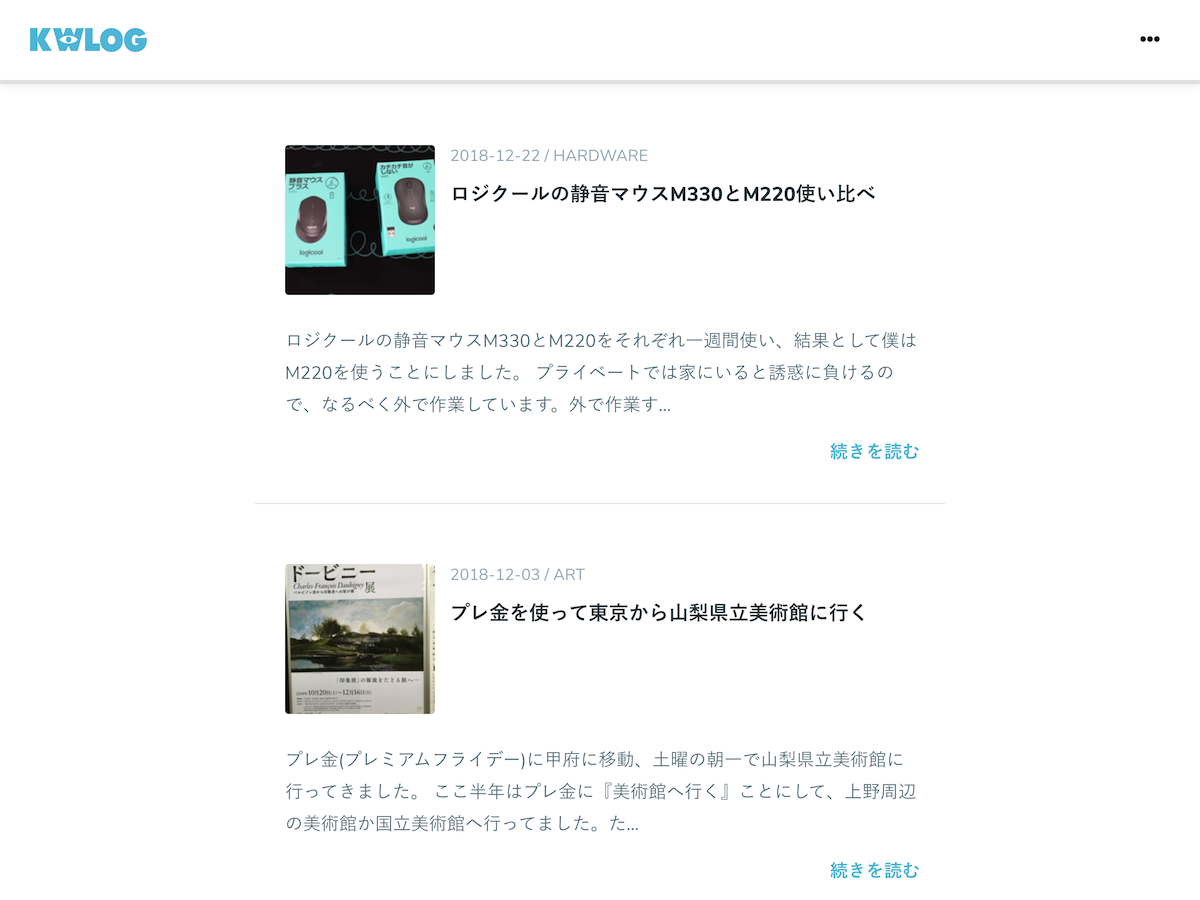
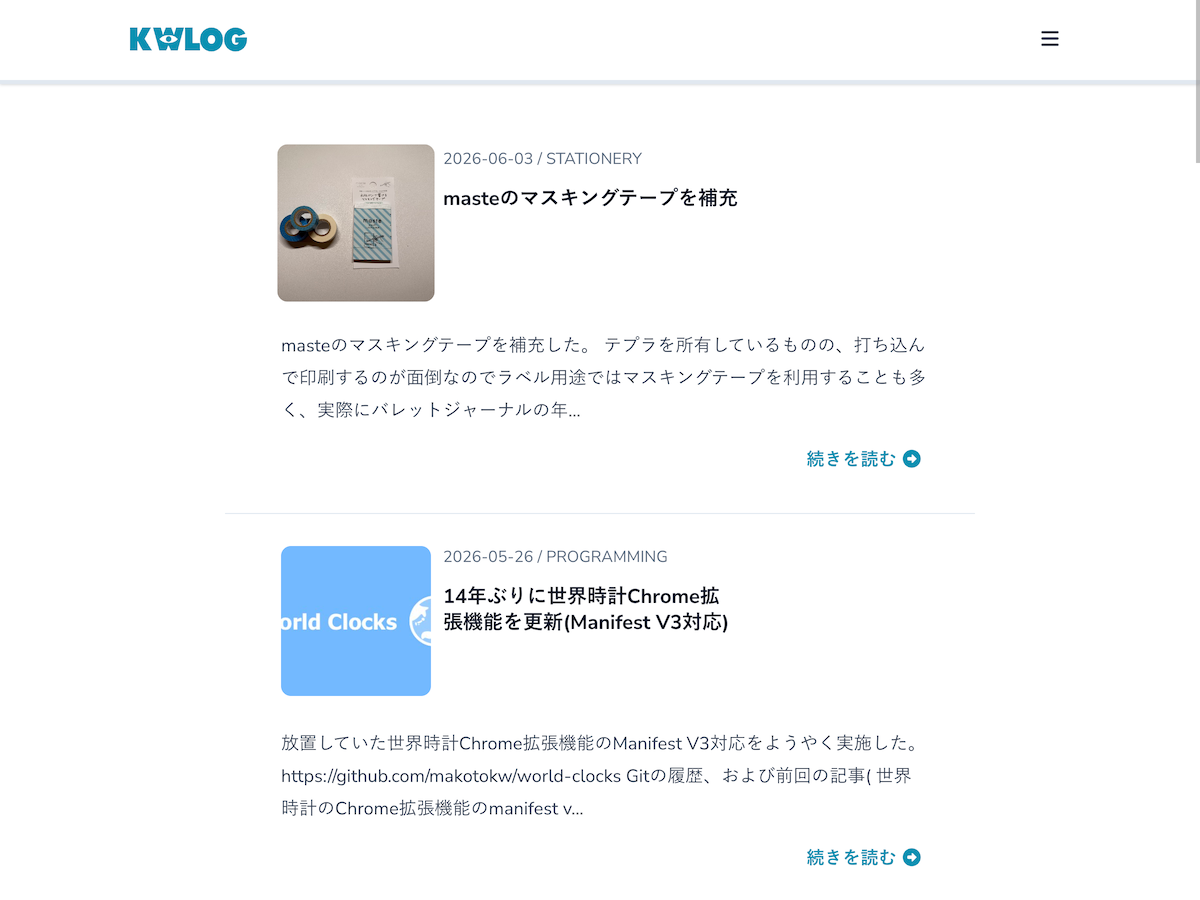
Update README, style.css, and package.json: refine docs, bump version to 1.0.0 stable, and update theme metadata.

diff --git a/style.css b/style.css
@@ -4,7 +4,7 @@
  * Author: makoto_kw
  * Author URI: https://makotokw.com/
  * Description: 2026 theme for blog.makotokw.com.
- * Version: 1.0.0-beta.1.1782608948295
+ * Version: 1.0.0.1783000751712
  * Requires at least: 6.0
  * Tested up to: 6.9
  * Requires PHP: 7.4

diff --git a/README.md b/README.md
@@ -1,43 +1,42 @@
-makotokw theme for WordPress
-===
+# makotokw theme for WordPress
 
 WordPress theme for [blog.makotokw.com](https://blog.makotokw.com).
 
 ![Screenshot](https://raw.githubusercontent.com/makotokw/wp-theme-makotokw/makotokw2021/screenshot.png)
 
- * Created by [_s](http://underscores.me)
- * Inspired [Twenty Fifteen](https://twentyfifteendemo.wordpress.com/), [ghost](https://blog.ghost.org/) and [medium](https://medium.com/)
- * [Font Awesome](http://fortawesome.github.io/Font-Awesome/) Icons
- * [Nunito Sans](https://github.com/googlefonts/nunito) self-hosted under the SIL Open Font License 1.1 (`assets/fonts/Nunito-Sans-OFL.txt`)
- * [google-code-prettify](https://github.com/google/code-prettify)
- * [Notyf](https://github.com/caroso1222/notyf)
- * [Tippy.js](https://atomiks.github.io/tippyjs/)
+- Created by [_s](http://underscores.me)
+- Inspired by [Twenty Fifteen](https://twentyfifteendemo.wordpress.com/), [Ghost](https://blog.ghost.org/), and [Medium](https://medium.com/)
+- [Font Awesome](http://fortawesome.github.io/Font-Awesome/) icons
+- [Nunito Sans](https://github.com/googlefonts/nunito), self-hosted under the SIL Open Font License 1.1 (`assets/fonts/Nunito-Sans-OFL.txt`)
+- [google-code-prettify](https://github.com/google/code-prettify)
+- [Notyf](https://github.com/caroso1222/notyf)
+- [Tippy.js](https://atomiks.github.io/tippyjs/)
 
-## Work With
+## Works With
 
-* [AmazonJS](https://wordpress.org/plugins/amazonjs/) Plugin
-* [GitHub Flavored Markdown for WordPress](https://github.com/makotokw/wp-gfm) Plugin
-* [Twitter Card](https://dev.twitter.com/docs/cards)
-* [Facebook Open Graph](https://developers.facebook.com/docs/sharing/opengraph) Protocol
+- [AmazonJS](https://wordpress.org/plugins/amazonjs/) plugin
+- [GitHub Flavored Markdown for WordPress](https://github.com/makotokw/wp-gfm) plugin
+- [Twitter Card](https://dev.twitter.com/docs/cards)
+- [Facebook Open Graph](https://developers.facebook.com/docs/sharing/opengraph) protocol
 
-## Limitation
+## Limitations
 
-* Tested on PHP 7.4 **ONLY** by makotokw for kwLog
- * Some styles are **depend on** posts on kwLog
- * **Used** ``register_taxonomy()`` for kwLog
- * **No** sidebar, **No** widgets
- * **Unsupported** post formats
- * **Not** implement for Comment Form (I use Jetpack Comment)
+- Tested on PHP 7.4 **only** by makotokw for kwLog
+- Some styles **depend on** posts on kwLog
+- **Uses** `register_taxonomy()` for kwLog
+- **No** sidebar, **no** widgets
+- **Unsupported** post formats
+- **No** implementation for the comment form (I use Jetpack Comment)
 
-Unfortunately, I did **NOT** design for purpose that others use.
-So, please use a reference of one implementation for WordPress theme.
+Unfortunately, I did **not** design this for use by others.
+Please use it as a reference implementation for a WordPress theme.
 
 ## Installation
 
-```
+```sh
 cd /path/to/wordpress/wp-content/themes
-git clone https://github.com/makotokw/wp-theme-makotokw.git makotokw2025
-cd makotokw2025
+git clone https://github.com/makotokw/wp-theme-makotokw.git makotokw2026
+cd makotokw2026
 cp -p config.php.sample config.php
 ```
 
@@ -45,13 +44,13 @@ cp -p config.php.sample config.php
 
 ### Requirements
 
-* [Node.js](https://nodejs.org)
-* [Yarn](https://yarnpkg.com)
+- [Node.js](https://nodejs.org)
+- [Yarn](https://yarnpkg.com)
 
 ### Build
 
-```
-cd /path/to/wordpress/wp-content/themes/makotokw2025
+```sh
+cd /path/to/wordpress/wp-content/themes/makotokw2026
 yarn install
 # Development server (optional; for assets only)
 yarn dev
@@ -61,4 +60,4 @@ yarn build
 
 ## License
 
-* GPL v2
+- GPL v2
